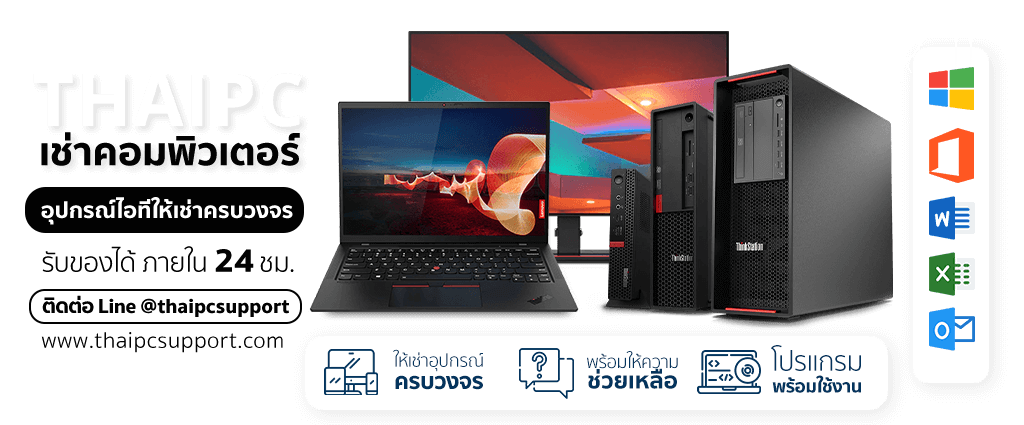
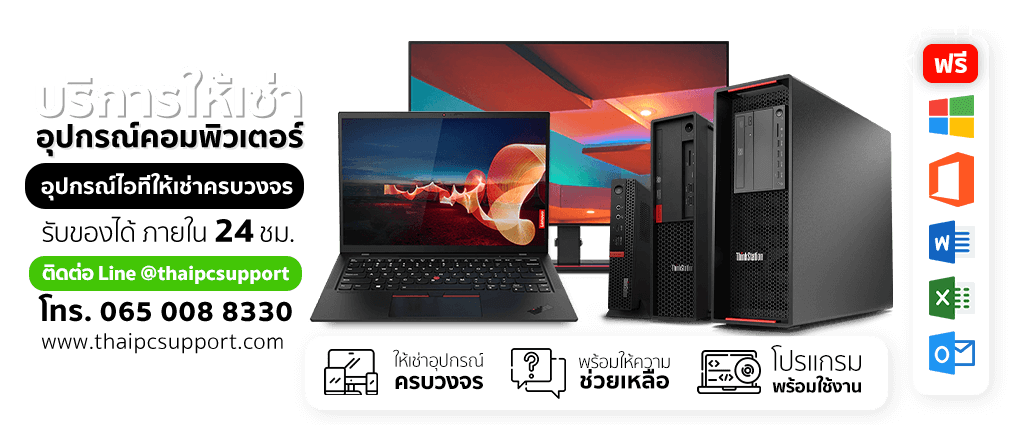
Update

Changed region(s): [[0.0, 0.0612, 0.875, 0.9482], [0.875, 0.0918, 0.9688, 0.8871], [0.0312, 0.7953, 0.2812, 0.8259]]

diff --git a/rental-computer.html b/rental-computer.html
@@ -700,7 +700,7 @@
             <div class="container">
                 <div class="row justify-content-md-center">
                     <div class="col col-lg-3 text-center">
-                        <a href="tel:0650088330" class="btn">โทร 065-008-8330</a>
+                        <a href="tel:0650088330"  class="btn">โทรหาเรา 065-008-8330</a>
                     </div>
                     <!--<div class="col col-lg-3 text-center">
                         <a href="https://line.me/R/ti/p/%40thaipcsupport" class="btn">@thaipcsupport</a>
